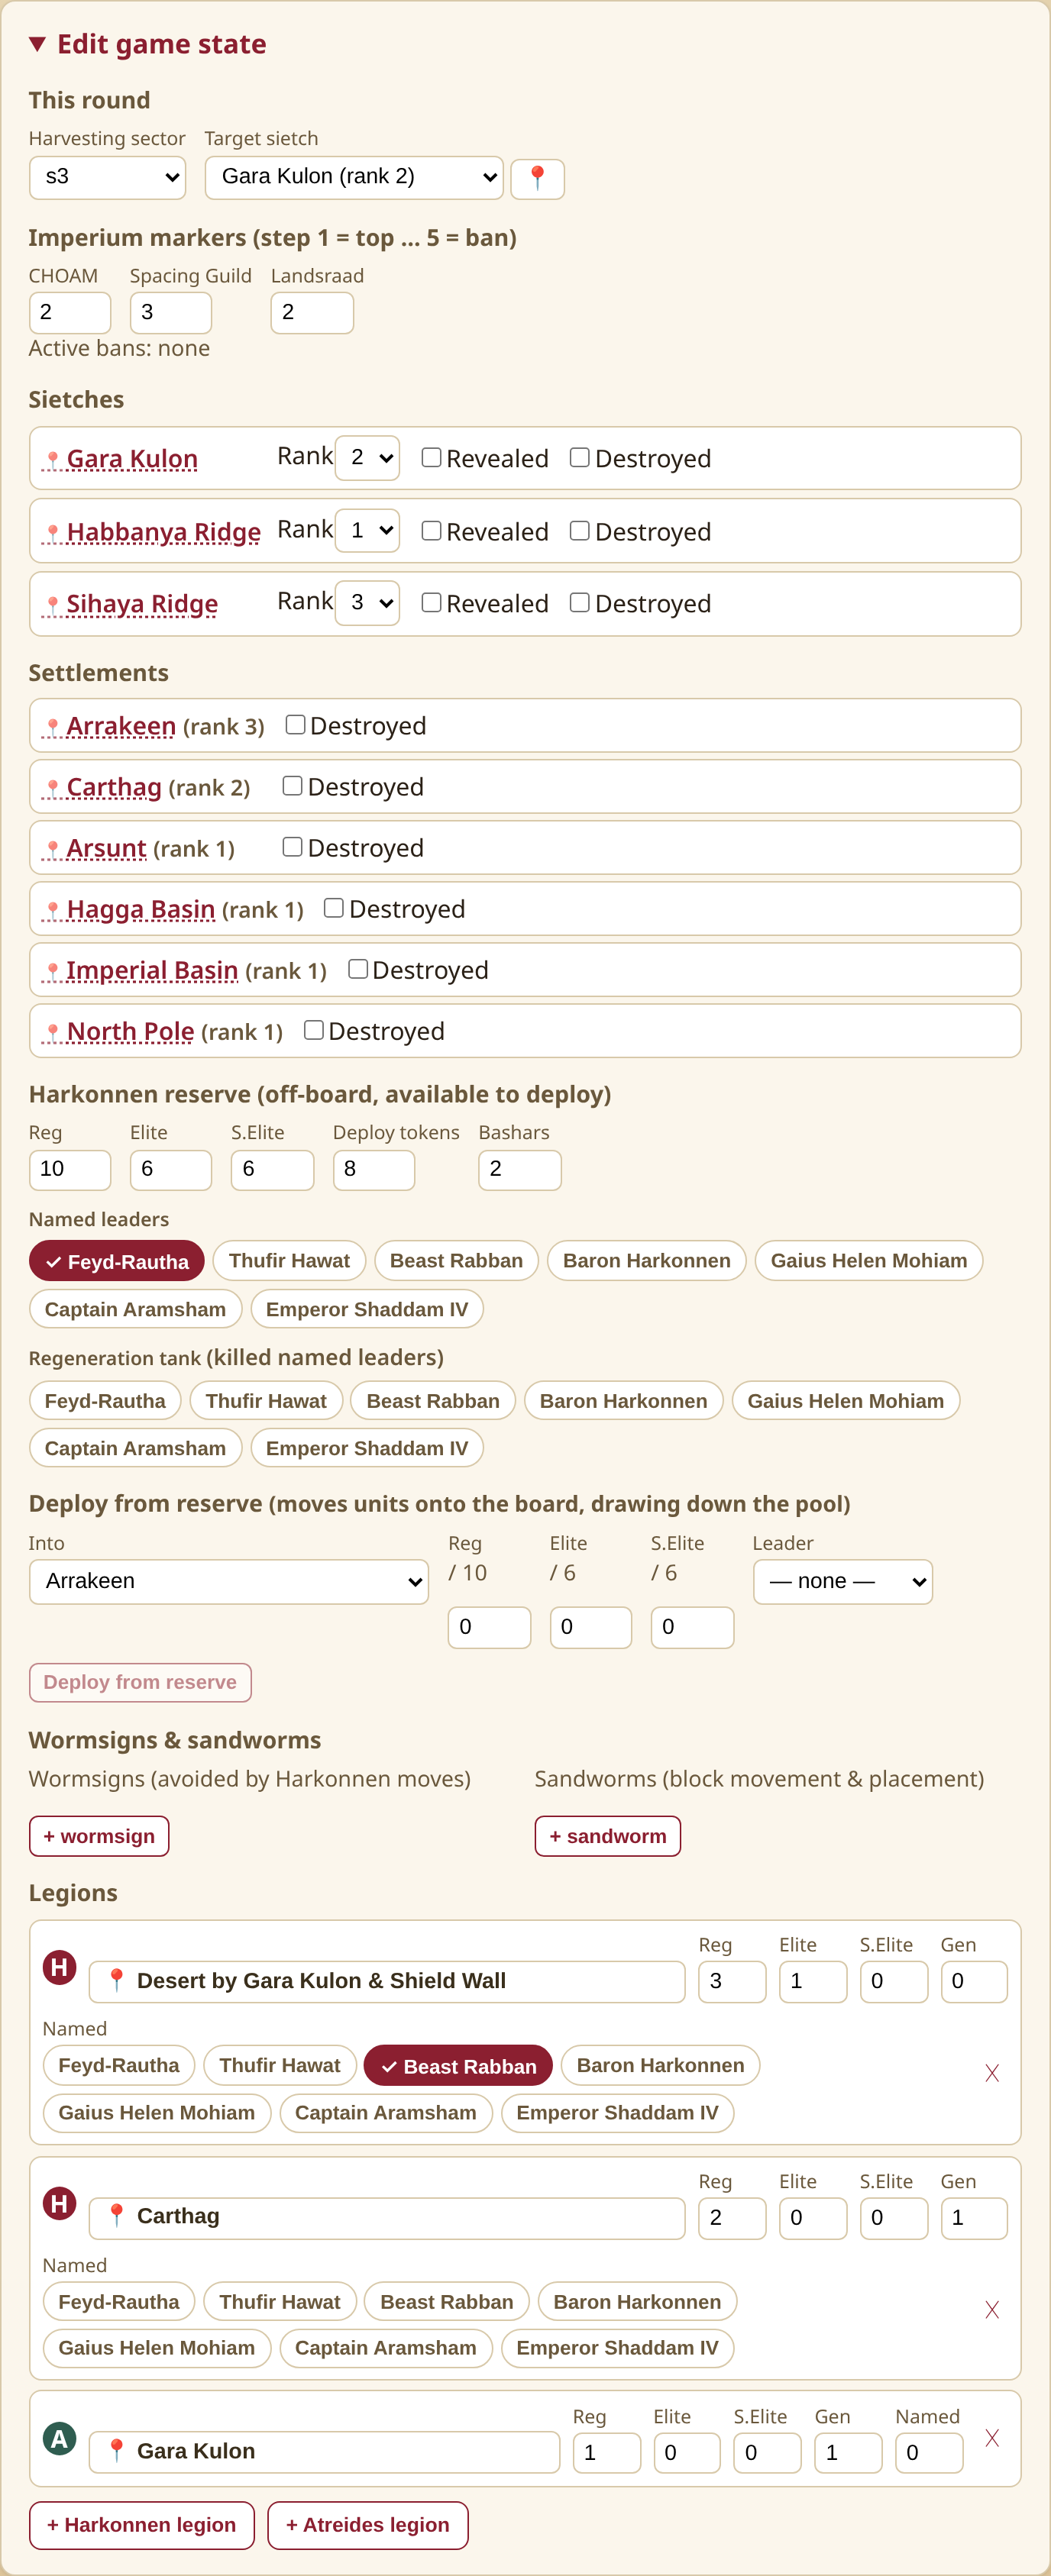
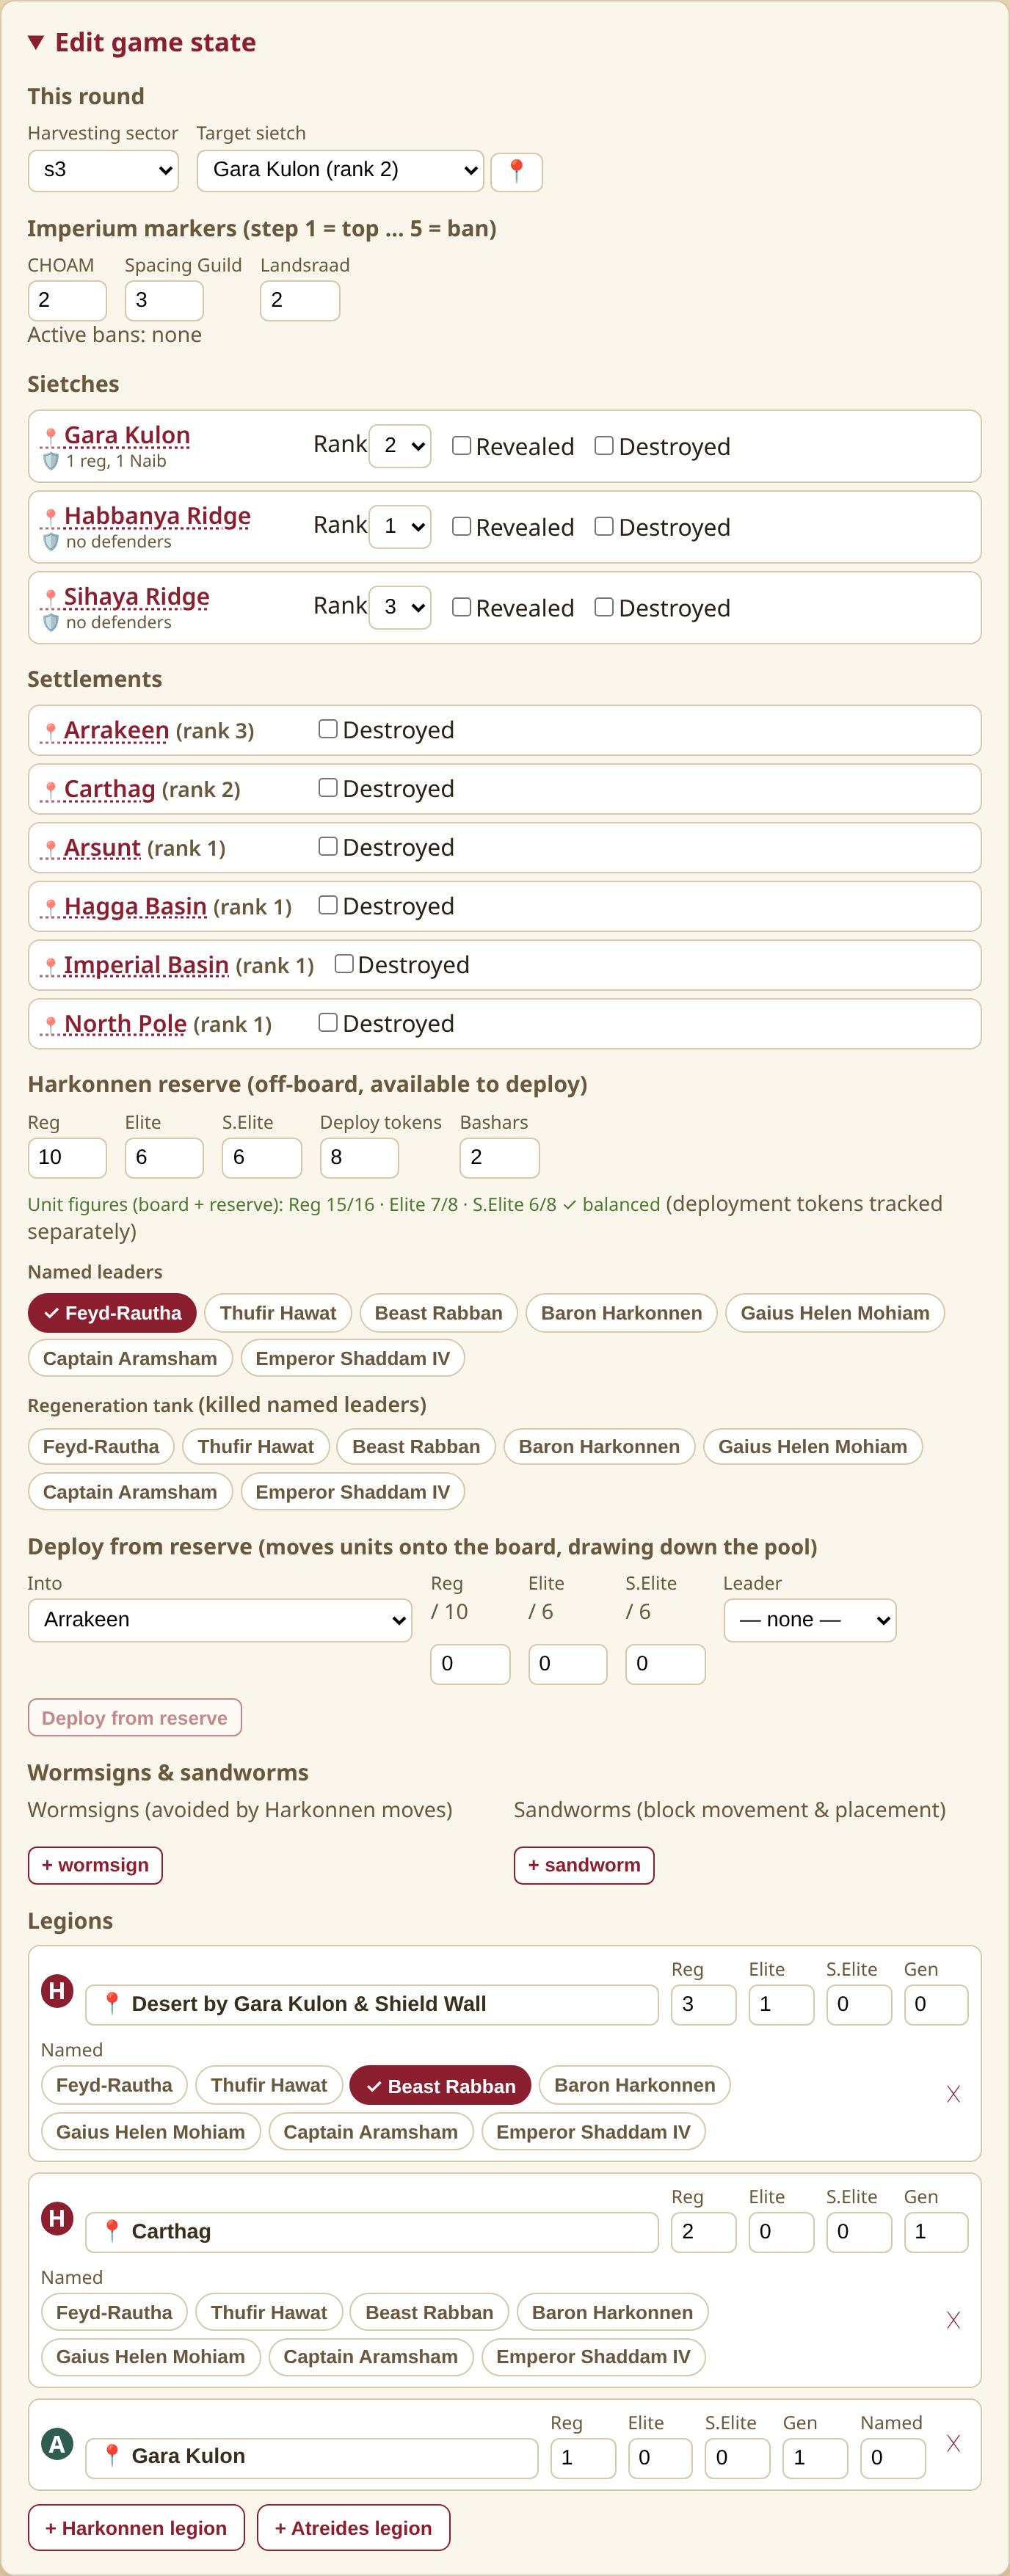
feat(editor): Harkonnen figure-budget drift indicator
Raw legion unit edits don't touch the reserve (by design — for matching the
physical board), so board + reserve can drift past the game's actual figure
count. Add harkonnenFigureTally() and show a reconciliation line in the reserve
section: 'Unit figures (board + reserve): Reg N/16 · Elite N/8 · S.Elite N/8',
green ✓ when balanced, red when a type exceeds its component limit. Deployment
tokens are counted separately (hidden composition). Covered by tests; editor
screenshot refreshed.

Claude-Session: https://claude.ai/code/session_01LoVDuW4iUy6YWCKKE7Qg1p

diff --git a/src/engine/figureBudget.ts b/src/engine/figureBudget.ts
@@ -1,0 +1,47 @@
+// Harkonnen figure-budget reconciliation.
+//
+// The game has a fixed number of each Harkonnen unit figure, split between the board and the
+// off-board reserve. The raw legion editor lets you set a legion's unit counts freely (to match
+// the physical board) without touching the reserve, so board + reserve can drift past what the game
+// actually contains. This tallies both sides so the UI can flag a total that exceeds the component
+// count. Deployment tokens are a separate pool (their unit composition is hidden until revealed) and
+// are intentionally not counted here.
+
+import type { GameState, UnitType } from './state';
+
+/** Total Harkonnen unit figures in the game (the physical component counts). */
+export const HARKONNEN_UNIT_TOTALS: Record<UnitType, number> = { regular: 16, elite: 8, special_elite: 8 };
+
+const UNIT_TYPES: readonly UnitType[] = ['regular', 'elite', 'special_elite'];
+
+export interface FigureTally {
+  /** Unit figures on Harkonnen legions. */
+  board: Record<UnitType, number>;
+  /** Unit figures in the off-board reserve. */
+  reserve: Record<UnitType, number>;
+  /** board + reserve. */
+  total: Record<UnitType, number>;
+  /** The component limit per type. */
+  max: Record<UnitType, number>;
+  /** Types whose total exceeds the game's figure count (impossible — a data-entry drift). */
+  over: UnitType[];
+}
+
+/** Tally Harkonnen unit figures across the board and reserve, and note any type that's over budget. */
+export function harkonnenFigureTally(s: GameState): FigureTally {
+  const board: Record<UnitType, number> = { regular: 0, elite: 0, special_elite: 0 };
+  for (const l of s.legions) {
+    if (l.faction !== 'harkonnen') continue;
+    board.regular += l.units.regular;
+    board.elite += l.units.elite;
+    board.special_elite += l.units.special_elite;
+  }
+  const reserve = s.harkonnenReserve.units;
+  const total: Record<UnitType, number> = {
+    regular: board.regular + reserve.regular,
+    elite: board.elite + reserve.elite,
+    special_elite: board.special_elite + reserve.special_elite,
+  };
+  const over = UNIT_TYPES.filter((t) => total[t] > HARKONNEN_UNIT_TOTALS[t]);
+  return { board, reserve, total, max: HARKONNEN_UNIT_TOTALS, over };
+}

diff --git a/src/engine/figureBudget.test.ts b/src/engine/figureBudget.test.ts
@@ -1,0 +1,38 @@
+import { describe, it, expect } from 'vitest';
+import { harkonnenFigureTally, HARKONNEN_UNIT_TOTALS } from './figureBudget';
+import { newGameState } from './newGame';
+import { emptyLegion, type GameState } from './state';
+
+describe('harkonnenFigureTally', () => {
+  it('a fresh game balances exactly to the component totals (all figures in reserve)', () => {
+    const t = harkonnenFigureTally(newGameState());
+    expect(t.board).toEqual({ regular: 0, elite: 0, special_elite: 0 });
+    expect(t.total).toEqual(HARKONNEN_UNIT_TOTALS);
+    expect(t.over).toEqual([]);
+  });
+
+  it('counts only Harkonnen legions on the board', () => {
+    const s = newGameState(); // starts with Atreides naibs on sietches (0 units) + reserve 16/8/8
+    const withHark: GameState = {
+      ...s,
+      legions: [...s.legions, { ...emptyLegion('harkonnen', 'carthag'), units: { regular: 3, elite: 1, special_elite: 0 } }],
+    };
+    const t = harkonnenFigureTally(withHark);
+    expect(t.board).toEqual({ regular: 3, elite: 1, special_elite: 0 });
+    // board + reserve now exceeds the totals because the raw edit didn't draw from reserve
+    expect(t.total.regular).toBe(19);
+    expect(t.over).toEqual(['regular', 'elite']);
+  });
+
+  it('is not over budget when board + reserve stays within the limits', () => {
+    const s = newGameState();
+    const balanced: GameState = {
+      ...s,
+      legions: [...s.legions, { ...emptyLegion('harkonnen', 'carthag'), units: { regular: 4, elite: 0, special_elite: 0 } }],
+      harkonnenReserve: { ...s.harkonnenReserve, units: { regular: 12, elite: 8, special_elite: 8 } },
+    };
+    const t = harkonnenFigureTally(balanced);
+    expect(t.total).toEqual(HARKONNEN_UNIT_TOTALS);
+    expect(t.over).toEqual([]);
+  });
+});

diff --git a/src/ui/styles.css b/src/ui/styles.css
@@ -723,6 +723,24 @@ label.mini.check input {
   align-items: flex-start;
 }
 
+.figure-tally {
+  margin: 0.5rem 0 0;
+  font-size: 0.78rem;
+  color: #4a7a2f;
+}
+.figure-tally.over {
+  color: var(--accent);
+  font-weight: 600;
+}
+.figure-tally .over {
+  color: var(--accent);
+  font-weight: 700;
+}
+.figure-tally .hint {
+  color: #6a583c;
+  font-weight: 400;
+}
+
 /* --- board map --- */
 .map-summary {
   font-weight: 700;

diff --git a/src/ui/StateEditor.tsx b/src/ui/StateEditor.tsx
@@ -7,6 +7,7 @@ import { useState } from 'react';
 import { AREA_IDS, type SectorId } from '../engine/board';
 import { activeBans } from '../engine/spiceMustFlow';
 import { deployFromReserve } from '../engine/applyAction';
+import { harkonnenFigureTally } from '../engine/figureBudget';
 import {
   emptyLegion,
   type Faction,
@@ -298,6 +299,8 @@ export function StateEditor({
   const r = s.harkonnenReserve;
   const setReserveUnit = (key: UnitType, value: number) =>
     onChange({ ...s, harkonnenReserve: { ...r, units: { ...r.units, [key]: clamp(value, 0, 16) } } });
+  // Reconcile unit figures across board + reserve so raw legion edits that over-allocate are caught.
+  const tally = harkonnenFigureTally(s);
 
   // Wormsigns / sandworms: arrays of { area }. Default a new one to the first rules-valid Desert area.
   const addWormsign = () => {
@@ -454,6 +457,19 @@ export function StateEditor({
           />
         </label>
       </div>
+      <p className={`figure-tally${tally.over.length ? ' over' : ''}`}>
+        Unit figures (board + reserve):{' '}
+        {UNIT_TYPES.map(({ key, label }, idx) => (
+          <span key={key} className={tally.over.includes(key) ? 'over' : ''}>
+            {idx > 0 ? ' · ' : ''}
+            {label} {tally.total[key]}/{tally.max[key]}
+          </span>
+        ))}
+        {tally.over.length > 0
+          ? ' — over the game’s figure count; a raw legion edit didn’t draw from the reserve.'
+          : ' ✓ balanced'}
+        <span className="hint"> (deployment tokens tracked separately)</span>
+      </p>
       <div className="reserve-leaders">
         <span className="reserve-leaders-label">Named leaders</span>
         <LeaderPicker